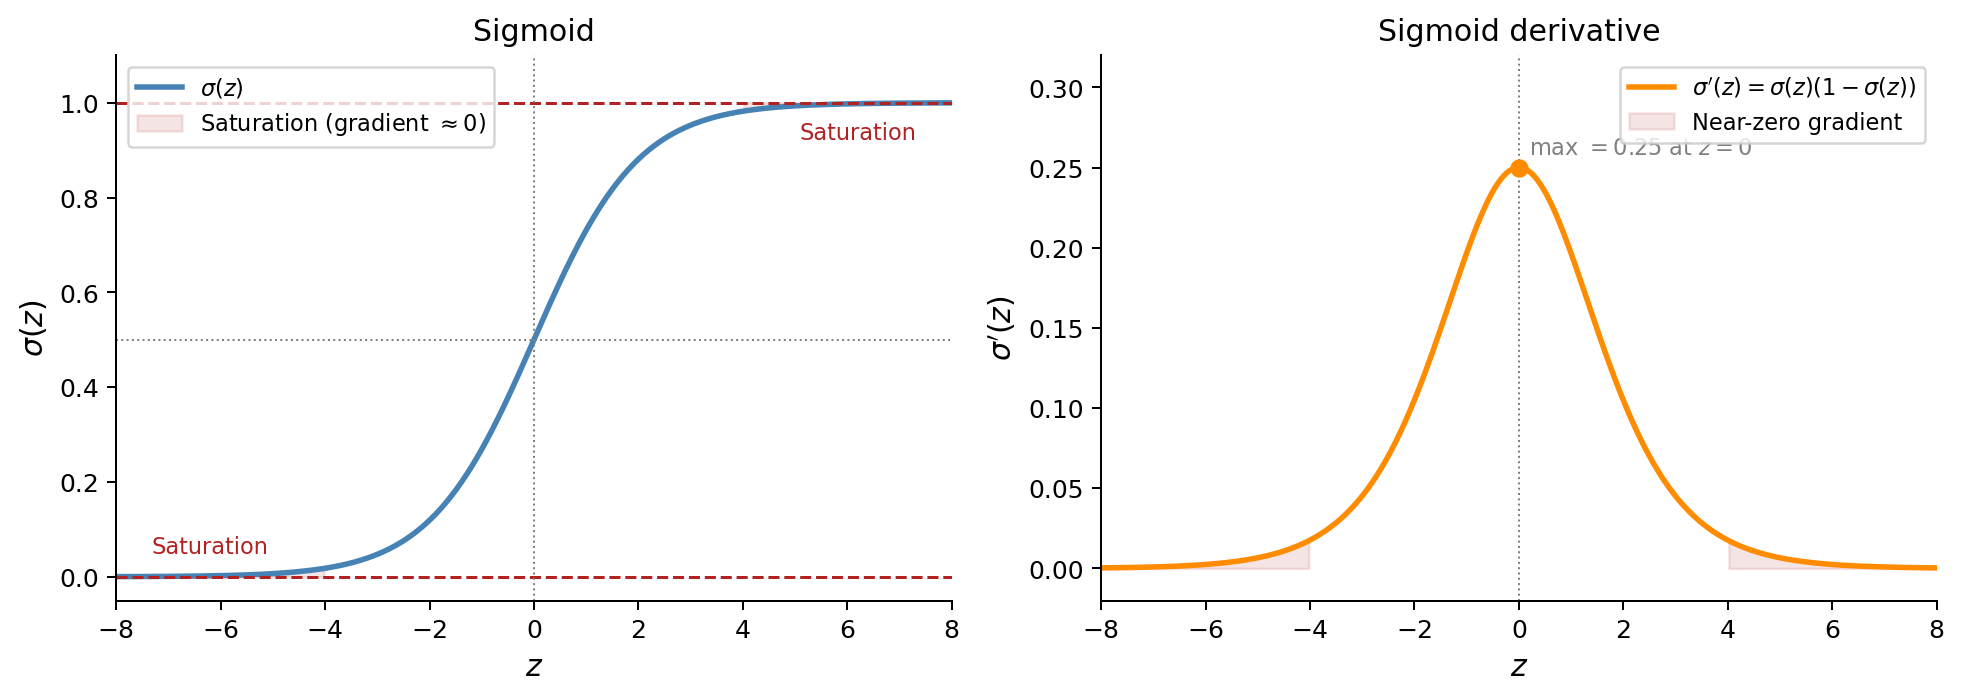
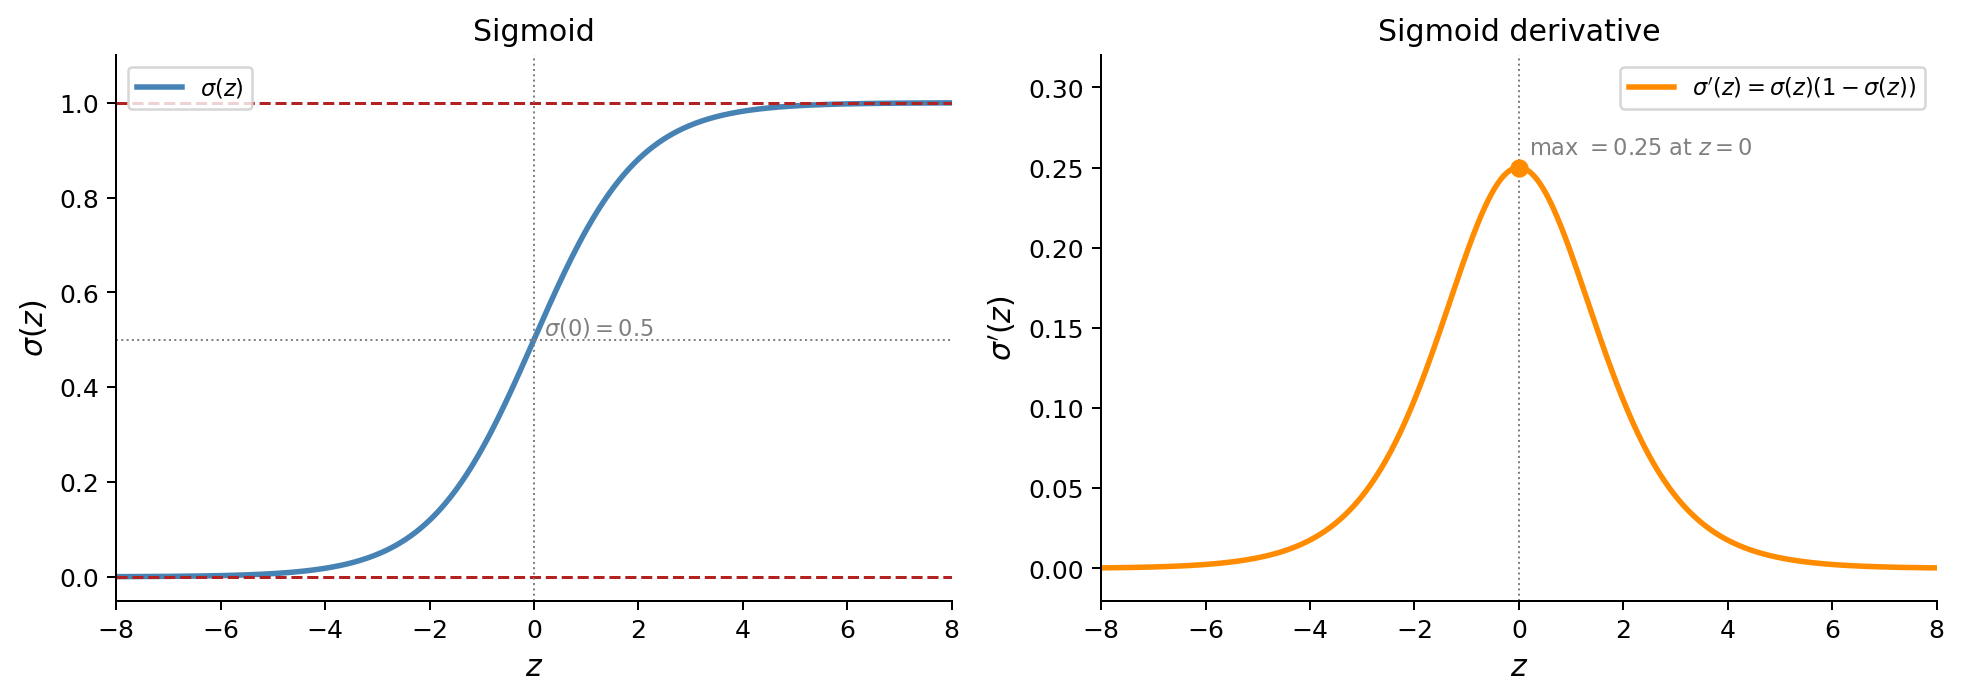
(Claudio) Ch4: Backpropagation formalism and ReLU

diff --git a/Chapters/Ch_4_ann.tex b/Chapters/Ch_4_ann.tex
@@ -79,8 +79,48 @@ passes through the network (one forward, one backward), the backpropagation algo
     \item Finally, the algorithm performs a Gradient Descent step to tweak all the connection weights in the network, using the error gradients it just computed.
 \end{itemize}
 
+
+More formally, for a network with $D$ layers, the loss is a composition:
+
+\begin{equation}
+    \mathcal{L} = L\!\Big(f^{(D)}\big(\cdots f^{(1)}(\mathbf{X};\, \mathbf{W}^{(1)}) \cdots;\, \mathbf{W}^{(D)}\big)\Big)
+\end{equation}
+
+Where $L(\cdot)$ is the loss function and $f^{(i)}$ the full layer transformation for layer $i$ (i.e. $\phi\!\left(\mathbf{X}\mathbf{W}^{(i)} + \mathbf{b}^{(i)}\right)$).
+
+The goal of backpropagation is to compute $\frac{\partial \mathcal{L}}{\partial \mathbf{W}^{(r)}}$ for every layer $r$, so that each weight matrix can be updated by gradient descent.
+
+For layer $r$, preactivation $\mathbf{z}^{(r)}$ and activation $\mathbf{h}^{(r)}$ are:
+\begin{equation}
+    \mathbf{z}^{(r)} = \mathbf{h}^{(r-1)} \mathbf{W}^{(r)} + \mathbf{b}^{(r)}, \qquad \mathbf{h}^{(r)} = \phi\!\left(\mathbf{z}^{(r)}\right), \qquad \mathbf{h}^{(0)} = \mathbf{X}
+\end{equation}
+Applying the chain rule through all layers from $D$ back to $r$:
+\begin{equation}
+    \frac{\partial \mathcal{L}}{\partial \mathbf{W}^{(r)}} =
+    \frac{\partial \mathcal{L}}{\partial \mathbf{h}^{(D)}} \cdot
+    \frac{\partial \mathbf{h}^{(D)}}{\partial \mathbf{z}^{(D)}} \cdot
+    \frac{\partial \mathbf{z}^{(D)}}{\partial \mathbf{h}^{(D-1)}} \cdot
+    \frac{\partial \mathbf{h}^{(D-1)}}{\partial \mathbf{z}^{(D-1)}} \cdots
+    \frac{\partial \mathbf{z}^{(r+1)}}{\partial \mathbf{h}^{(r)}} \cdot
+    \frac{\partial \mathbf{h}^{(r)}}{\partial \mathbf{z}^{(r)}} \cdot
+    \frac{\partial \mathbf{z}^{(r)}}{\partial \mathbf{W}^{(r)}}
+      \label{eq:chain_rule}
+\end{equation}
+where each intermediate factor is
+\begin{equation}
+    \frac{\partial \mathbf{h}^{(k)}}{\partial \mathbf{z}^{(k)}} = \phi'\!\left(\mathbf{z}^{(k)}\right), \qquad
+    \frac{\partial \mathbf{z}^{(k)}}{\partial \mathbf{h}^{(k-1)}} = \mathbf{W}^{(k)}, \qquad
+\end{equation}
+Finally, the full gradient can be rewritten in short form as follows
+\begin{equation}
+    \frac{\partial \mathcal{L}}{\partial \mathbf{W}^{(r)}} = \mathbf{h}^{(r-1)\top} \boldsymbol{\delta}^{(r)}
+\end{equation}
+where $\boldsymbol{\delta}^{(r)}$ is the \textit{backpropagated error signal} at layer $r$, which compresses all the intermediate derivatives in one term, while $\mathbf{h}^{(r-1)\top}$ comes from the last term in \eqref{eq:chain_rule}
+
+
 It is important to initialize all the hidden layers' connection weights randomly, otherwise all neurons will be identical, hence evolve in the same way. The model would be equivalent of having a single neuron per layer.
 n order for this algorithm to work, the activation function must be changed from the step function to one such that its derivative is well-defined and nonzero everywhere, so that the gradient can always be computed and the weights updated effectively.
+
 
 \subsection{Activation Functions: sigmoid, ReLU}
 \label{subsec:activation_functions}
@@ -100,21 +140,34 @@ It closely represents the firing rates of biological neurons and, due to squashi
 
 \begin{figure}[ht]
     \centering
-    \includegraphics[width=\textwidth]{Images/images_ch_4/sigmoid.png}
+    \includegraphics[width=0.8\textwidth]{Images/images_ch_4/sigmoid.png}
     \caption{Sigmoid function $\sigma(z)$ (left) and its derivative $\sigma'(z) = \sigma(z)(1-\sigma(z))$ (right). The shaded regions show the saturation zones where the gradient is nearly zero, slowing down learning through backpropagation.}
     \label{fig:sigmoid}
 \end{figure}
 
 The sigmoid shows nevertheless some problems.
 Firstly the saturation of the values of $\sigma(z)$ when $|z|\gg1$ causes the values of the gradient to shrink. Gradients can get progresively smaller as the algorithm progresses
-down to the lower layers. As a result, the Gradient Descent update leaves the lower layer connection weights virtually unchanged, and training never converges to a good solution. This is called the \textit{vanishing gradients} problem 
+down to the lower layers. As a result, the Gradient Descent update leaves the lower layer connection weights virtually unchanged, and training never converges to a good solution. This is called the \textit{vanishing gradients} problem.
+To solve this problem, the hidden layers must have a non-saturating activation function.
 
-
-The \textit{Rectified Linear Unit} (ReLU) is a simpler alternative that has become the default choice in deep networks:
+The \textit{Rectified Linear Unit} (ReLU) is a simple alternative that doesn't saturate for positive values and proven to be very effective in deep networks:
 
 \begin{equation}
     \text{ReLU}(z) = \max(0, z)
 \end{equation}
+
+It is continuous but not differentiable at z = 0, which can make Gradient Descent bounce around, but it has the advantage of being very fast to compute, reducing significantly training times.
+This has been the choice for the hidden layers for the ANN used for this thesis.
+
+\begin{figure}[ht]
+    \centering
+    \includegraphics[width=0.8\textwidth]{Images/images_ch_4/relu.png}
+    \caption{ReLU function (left) and its derivative (right). For $z < 0$ the output and gradient are both exactly zero --- the so-called \textit{dying ReLU} problem --- while for $z > 0$ the gradient is a constant 1, avoiding saturation.}
+    \label{fig:relu}
+\end{figure}
+
+However, ReLU has the disadvantage that its derivative is zero for negative inputs. If all the training examples produce negative inputs to a given ReLU function, the parameters feeding into this ReLU during training cannot be improved, since the gradient with respect to the incoming weights is locally flat. This is known as the \textit{dying ReLU problem}.
+To solve it, functions such as LeakyReLU (slightly tilted for $z<0$) exist, but they were not implemented in this work for simplicity.
 
 \subsection{Binary Cross-Entropy Loss}
 \label{subsec:bce}